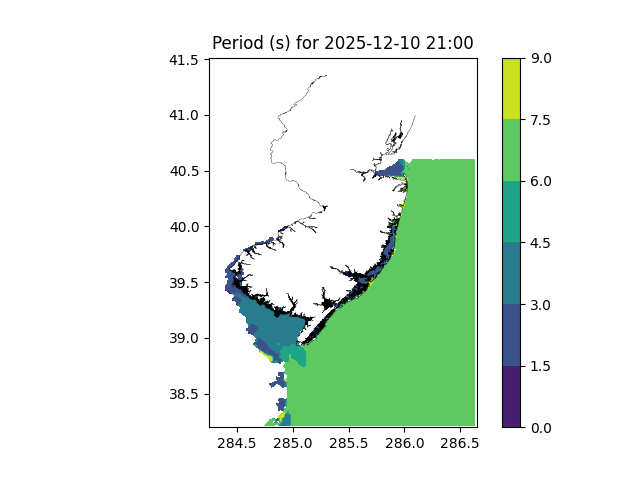
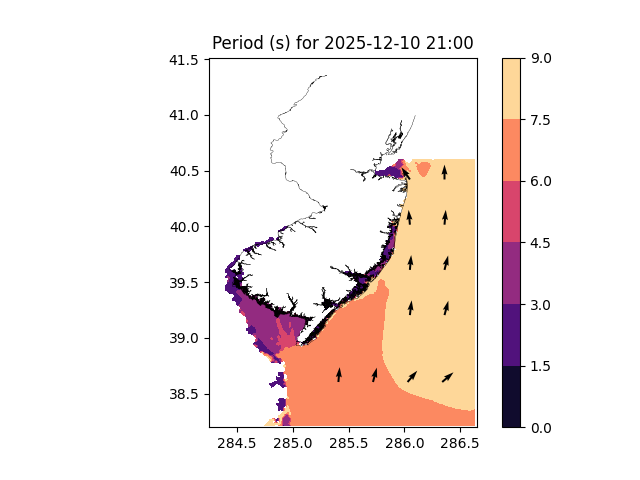
Updated forecasts

Changed region(s): [[0.3438, 0.3125, 0.75, 0.9062], [0.7812, 0.125, 0.8125, 0.9062], [0.375, 0.5, 0.4062, 0.5312]]

diff --git a/_posts/2025-12-06-Swell-Event-Notes.md b/_posts/2025-12-06-Swell-Event-Notes.md
@@ -3,53 +3,54 @@ layout: post
 title: Swell for the Second Week of December
 ---
 
-*Not the swell I was hoping for*
-
----
-
-**Next expected update of this page will be 12/09**
-
-I *was* hoping to see a different pattern emerge where storm tracks would be further south rather than over the Great Lakes like we saw most of November. About a week ago, models were showing several runs where the jet stream was positioned over VA. Unfuortunately, it's looking like that isn't the case. Not that it was instantly going to be the pattern going forward, but it would have been a positive thing in a long stretch of poor surf.
+**Updated 12/09 09:30**
 
 ## Moving On
 
-Anywho, we have a swell on the charts for at least mid-week, with some potential for Friday as well (more on that later). I'm seeing a very similar setup to what we saw last month, with a fairly strong low pressure system moving east over the Great Lakes and an area of high pressure over the central Atlantic. See below:
+I'm seeing a very similar setup to what we saw last month, with a fairly strong low pressure system moving east over the Great Lakes and an area of high pressure over the central Atlantic. See below:
 
 ![20251210 Wind Map](/assets/images/20251210_resized.jpg)
 
 Courtesy of tropicaltidbits.com
 
-As you can see, the wind field is primarily southwest and therefore the swell will be too. This is due to the southeast portion of our low pressure system interacting with the west/northwest portion of our high pressure system. We will see some steep angled south windswell as it wraps into our region. Swell heights are period are shown below:
+As you can see, the wind field is primarily from the southwest and therefore the swell will be too. This is due to the southeast portion of our low pressure system interacting with the west/northwest portion of our high pressure system. We will see some steep angled south windswell as it wraps into our region. Swell heights are period for the afternoon are shown below:
 
 ![20251210 Swell Heights](/assets/images/swell_2025-12-10_21.png)
 
 ![20251210 Swell Period](/assets/images/period_2025-12-10_21.png)
 
-Most of the surfable swell will be near dark with swell peaking overnight. This is 4pm on 12/10 and as we can see, most of the swell will be for the central part of the Jersey Shore. Monmouth should expect swell heights in the 3-4ft range and period to be really short at 6.5 seconds or so. Given that this is a steep angled south swell, our sandbars should fair pretty well, but I'd expect waves to be on the peaky side without too much room to run given the period. Wave heights are likely to be around stomach high on average.
+Most of the surfable swell will be near dark with swell peaking overnight. This is 4pm on 12/10. Monmouth should expect swell heights in the 6-8ft range and period to be around 8 seconds or so. Given that this is a steep angled south swell, our sandbars should fair pretty well, but I'd expect waves to be on the peaky side without too much room to run given the period. Wave heights are likely to be around shoulder high on average with some bigger sets.
 
-The wind forecast is currently showing strong SSW winds (15kts+) for the afternoon. South wind protection will be necessary if you're looking to get a few. I'd plan on surfing right before sunset/last light to make the most of it. High tide is mid-day, so that sets up a nice window late day on the dropping tide.
+Although the surf will be pretty large, I wouldn't expect a ton of push. The period is still pretty short and the swell has to wrap in given the swell angle. It'll be soft relative to the size. Newer surfers should know their limits (haven't had to say that in a while!), but it should still be approachable for experienced-but-not-pro folks. Note that this is all assuming that the wind switches SW and you have some amount of south wind protection.
+
+The wind forecast is currently showing strong SSW winds (18kts+ w/ stronger gusts) for the afternoon, switching to more SW as we get closer to sunset. South wind protection will (most likely) be necessary if you're looking to get a few. I'd plan on surfing right before sunset/last light to make the most of it. High tide is mid-day, so that sets up a nice window late day on the dropping tide.
 
 ## Thursday 12/11
 
-This is the best day of the week pending how well Friday works out. Waves will be on the smaller side, but we have offshore wind and a favorable swell angle. Swell height and period for 6am are shown below:
+This is the best day of the week. Waves will be on the smaller side, but we have offshore wind and a favorable swell angle. Swell height and period for 6am are shown below:
 
 ![20251211 Swell Heights](/assets/images/swell_2025-12-11_11.png)
 
 ![20251211 Period](/assets/images/period_2025-12-11_11.png)
 
-Swell height for 6am are still in the 3-4 foot range, but I'd expect Monmouth County to see the lower end of that range. Period should be around 8 seconds for our south angled wind swell. Surf heights will most likely be around waist-stomach high but I'd expect pretty soft surf, especially given the moderately strong offshore winds (15kts or so).
+Swell heights for 6am are still in the 3-5 foot range, but I'd expect Monmouth County to see the lower end of that range. Period should be around 8 seconds for our south angled wind swell. Surf heights will most likely be around waist-stomach high on average (largest early) but I'd expect pretty soft surf, especially given the strong offshore winds (20kts+ or so).
 
-I'd expect pretty mushy surf overall and plan on bringing a log or, at most, a groveler. Light boards may struggle a bit given the amount of wind and lack of swell/lack of steepness to the swell.
+Waves will be mushy overall and I'd plan on bringing a log or, at most, a groveler. Light boards may struggle a bit given the amount of wind and lack of swell/lack of steepness to the swell. That said, it's still looking like a fun morning of waves.
+
+Most of the swell will be gone by early afternoon. Swell height and period for 2pm are shown below:
+
+![20251211_2pm Swell Heights](/assets/images/swell_2025-12-11_19.png)
+
+![20251211_2pm Period](/assets/images/period_2025-12-11_19.png)
+
 
 ## Friday 12/12
 
-Friday is still a big question mark right now. Models are showing different paths as well as different intensities for the next low pressure system approaching our area. Some of the tracks/intensities are decent and we could see some pretty fun, albeit short period, surf. It's too early given the lack of consensus to post swell heights, but I'll update this as soon as things start to look more consistent.
-
-Update (12/7): Model outputs are trending worse, but to my eye we could see something like today (12/7) where we get an outperforming ESE swell. It's way too early to call, but I give this a low probability.
+We had a few good model runs, but it's looking like we're not going to see anything on Friday.
 
 ## Looking Ahead
 
-There's not much on the forecast after these two systems. Waves are flat going into the weekend as high pressure moves in on Saturday. I was originally optimistic about 12/15 or so, but that setup didn't work out. Currently, it looks like there will be a steeply angled wind swell, but it's most likely going to miss our region. The Jet Stream gets pretty disorganized after that time period and I'm not seeing anything on the charts through until around the end of the GFS forecast window. Hopefully we get a Christmas swell.
+There's not much on the forecast after Thursday. Waves are flat going into the weekend as high pressure moves in on Saturday. I was originally optimistic about 12/15 or so, but models are showing nothing from that system. Personally, I think we could see a little swell on Sunday 12/14, but I don't have anything to back that up. Otherwise, watch late next week.
 
 
 
